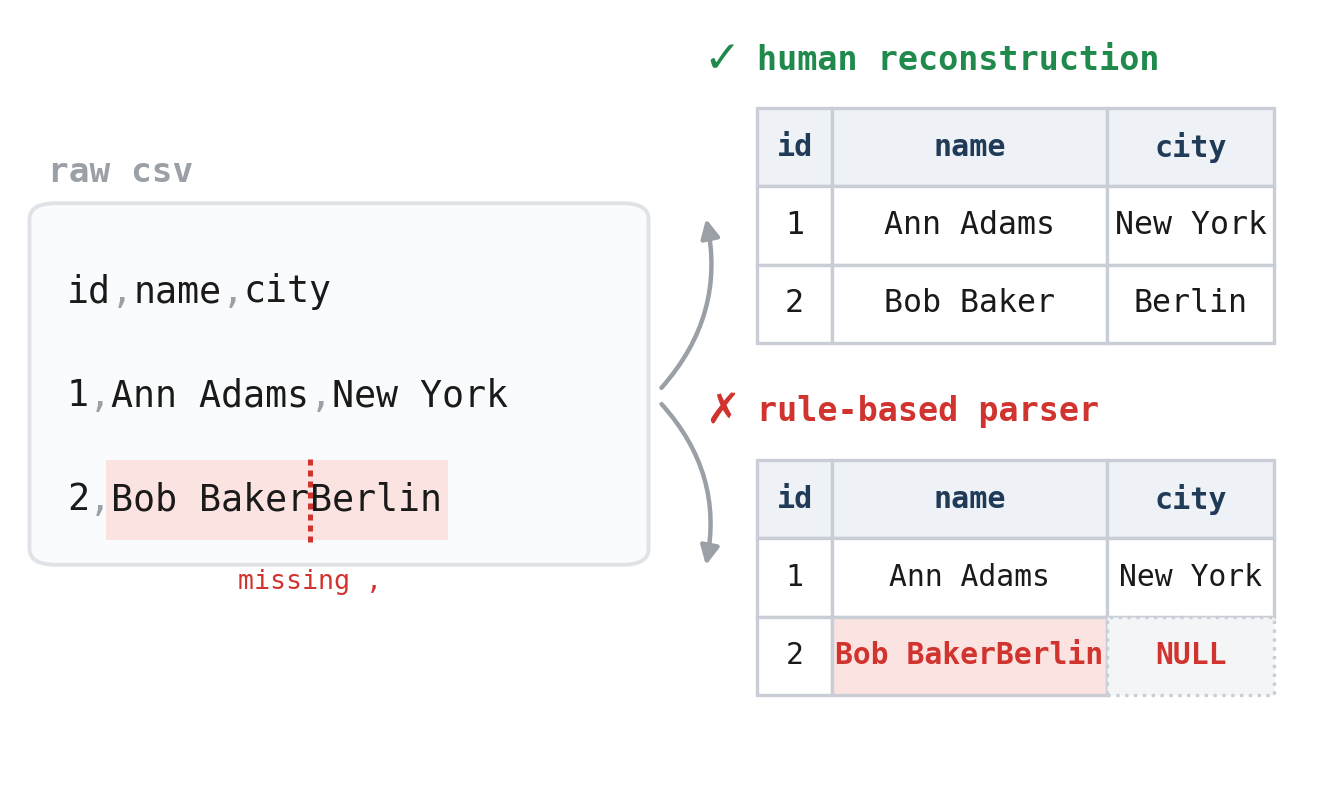
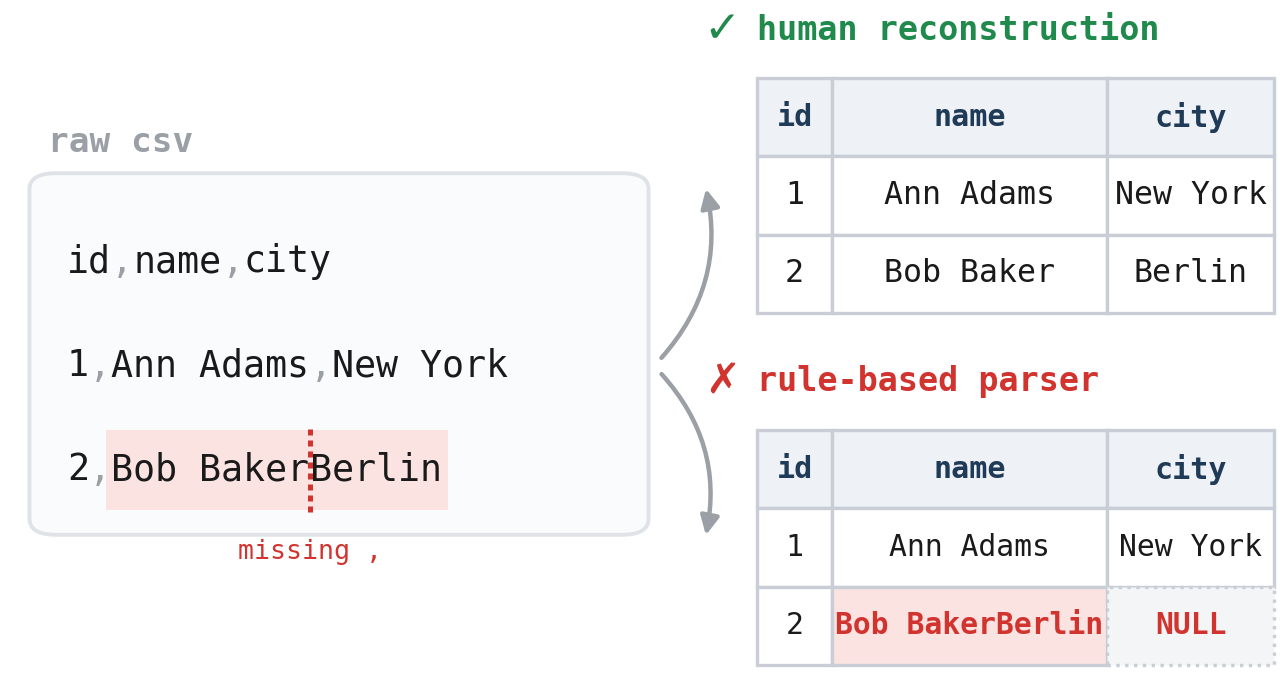
script for new intro figure

diff --git a/eval/make_figure_new_ex.py b/eval/make_figure_new_ex.py
@@ -236,6 +236,13 @@ from pathlib import Path
 
 output_dir = Path(__file__).resolve().parent
 
+from matplotlib.transforms import Bbox
+crop = Bbox.from_bounds(
+    0, 0.16,          # left, bottom crop
+    FIG_W, FIG_H - 0.16
+)
+
+
 fig.savefig(
     output_dir / "csv_teaser_missing_delimiter.pdf",
     bbox_inches="tight",
